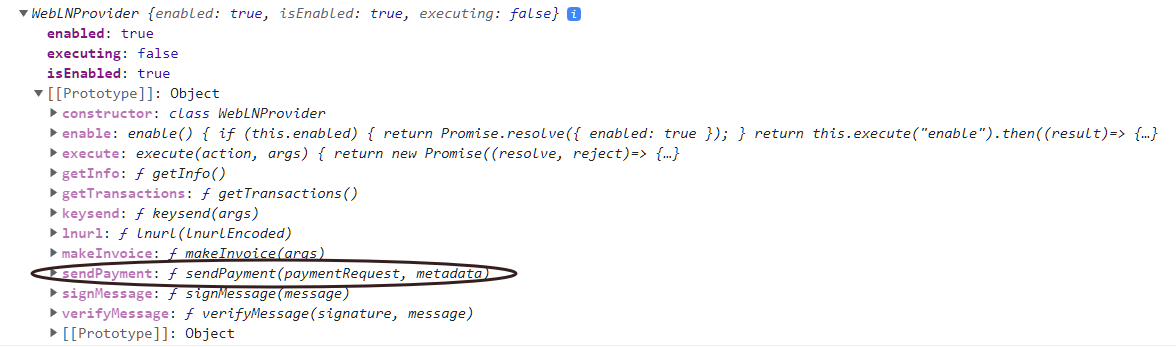
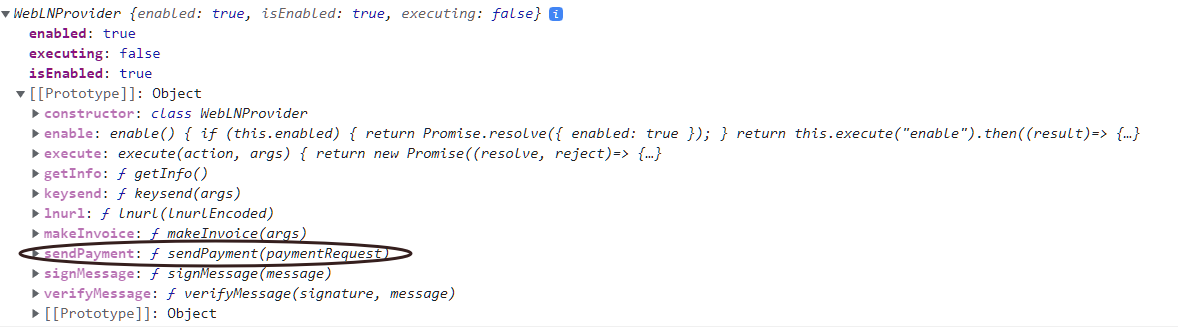
GitBook: [#25] No subject

Changed region(s): [[0.0, 0.0893, 0.9796, 0.9821], [0.0, 0.0, 0.5204, 0.0595]]

diff --git a/working-architecture-of-spec/validate-metadata-wallets.md b/working-architecture-of-spec/validate-metadata-wallets.md
@@ -32,38 +32,39 @@ Schemas can be created to validate received data against a predefined data model
 * Custom and Reusable Validator function to validate metadata
 
 ```
- import { audioObjectSchema } from "./audioObjectSchema";
+import { audioObjectSchema } from "./audioObjectSchema";
 
- export function isBase64(str: string) {
-   if (str === "" || str.trim() === "") {
-     return false;
-   }
-   try {
-     return btoa(atob(str)) == str;
-   } catch (err) {
-     return false;
-   }
- }
+export function isBase64(str: string) {
+  if (str === "" || str.trim() === "") {
+    return false;
+  }
+  try {
+    return btoa(atob(str)) == str;
+  } catch (err) {
+    return false;
+  }
+}
 
- export function MetadataValidator(metadata: { [key: string]: string }) {
-   let hasValidType = false;
-   let hasValidImage = true;
-   for (const key in metadata) {
-     if (key == "type") {
-       if (metadata[key] == "AudioObject") {
-         const parsed = audioObjectSchema.safeParse(metadata);
-         if (parsed.success) {
-           hasValidType = true;
-         }
-       }
-     }
-     if (key == "image") {
-       hasValidImage = isBase64(metadata[key]);
-     }
-   }
+export function MetadataValidator(metadata: object) {
+  let hasValidType: boolean = false;
+  let hasValidImage: boolean = true;
+  for (const [key, value] of Object.entries(metadata)) {
+    if (key == "type") {
+      if (value == "AudioObject") {
+        const parsed = audioObjectSchema.safeParse(metadata);
+        if (parsed.success) {
+          hasValidType = true;
+        }
+      }
+    }
+    if (key == "image") {
+      hasValidImage = isBase64(value);
+    }
+  }
 
- return hasValidType && hasValidImage;
- }
+  return hasValidType && hasValidImage;
+}
+
 ```
 
 * To Validate Metadata Just call the function by passing metadata.

diff --git a/working-architecture-of-spec/store-interact-and-do-after-actions-with-metadata.md b/working-architecture-of-spec/store-interact-and-do-after-actions-with-metadata.md
@@ -15,17 +15,16 @@ Once the payment is successful, we can allow the user to access his purchased co
 This can be done in the SendPayment callback function as follows:
 
 ```
- webln.sendPayment(Bolt 11 invoice, Metadata)
-          .then(function(r) {
-            // Required constraint to protect Metadata, as a rule when empty 
-            invoices are paid
-            if(r != undefined){
-              // Provide Metadata after successful Payment
-              // eg. Allow user to download a song after payment is successful
-            }
-          })
-          .catch(function(e) {
-            alert("Failed: " + e.message);
-            console.log('err pay:', e);
-          });    
+webln.sendPayment(invoice, metadata)
+  .then(function (r) {
+    // Required constraint to protect Metadata, as a rule when empty invoices are paid
+    if (r != undefined) {
+      // Provide Metadata after successful Payment
+      // eg. Allow user to download a song after payment is successful
+    }
+  })
+  .catch(function (e) {
+    alert("Failed: " + e.message);
+    console.log('err pay:', e);
+   });
 ```

diff --git a/working-architecture-of-spec/intro.md b/working-architecture-of-spec/intro.md
@@ -27,15 +27,14 @@ sendPayment(paymentRequest: string, metadata?: string): Promise<SendPaymentRespo
   Before passing metadata, metadata needs to be structured following the data models provided in a comprehensive guide
 
 ```
-webln.sendPayment(Invoice, Metadata)
-          .then(function(r) {
-            // Required constraint to protect Metadata, as a rule when empty 
-            invoices are paid
-            if(r != undefined){
-              // Provide Metadata after successful Payment
-              // eg. Allow user to download a song after payment is successful
-            }
-          })
+webln.sendPayment(invoice, metadata)
+  .then(function (r) {
+    // Required constraint to protect Metadata, as a rule when empty invoices are paid
+    if (r != undefined) {
+      // Provide Metadata after successful Payment
+      // eg. Allow user to download a song after payment is successful
+    }
+  })
 ```
 
 * Validate Metadata\

diff --git a/introduction/sending-payments-via-webln-along-with-metadata.md b/introduction/sending-payments-via-webln-along-with-metadata.md
@@ -10,11 +10,11 @@ sendPayment(paymentRequest: string, metadata?: string): Promise<SendPaymentRespo
 
 **WebLN Provider attached by wallets before**
 
-![WebLN provider attachted by wallets before](<../.gitbook/assets/image (2).png>)
+![WebLN provider attachted by wallets before](<../.gitbook/assets/image (4).png>)
 
 **WebLN Provider attached by wallets after implementation of this spec**
 
-![WebLN provider attached by wallets after ](<../.gitbook/assets/image (1).png>)
+![WebLN provider attached by wallets after ](../.gitbook/assets/image.png)
 
 ### Passing Metadata Via SendPayment Method
 

diff --git a/introduction/what-is-webln.md b/introduction/what-is-webln.md
@@ -1,7 +1,5 @@
 # 🤔 What is WebLN?
 
-###
-
 Lightning Web Standard (WebLN)⚡is a specification used to build a Bitcoin Lightning-driven web application.
 
 WebLN is a set of specifications for Lightning apps and client providers to facilitate communication between web apps and users’ lightning nodes in a secure way. It provides a programmatic, permissioned interface for letting applications ask users to send payments, generates invoices to receive payments, and much more.\

diff --git a/working-architecture-of-spec/make-a-request-to-wallet-for-webln-provider-via-triggering-sendpayment.md b/working-architecture-of-spec/make-a-request-to-wallet-for-webln-provider-via-triggering-sendpayment.md
@@ -13,4 +13,4 @@ sendPayment(paymentRequest: string, metadata?: string): Promise<SendPaymentRespo
 
 Alby uses an extended version of the WebLN provider which when triggered provides `SendPayment` method containing optional parameter `metadata`
 
-![WebLN provider attached by wallets after the implementation of this spec](../.gitbook/assets/image.png)
+![WebLN provider attached by wallets after the implementation of this spec](<../.gitbook/assets/image (3).png>)

diff --git a/data-models/data-model-overview.md b/data-models/data-model-overview.md
@@ -23,14 +23,13 @@ Use our data models of the suitable type to structure metadata in form of **JSON
 eg.
 
 ```
-var Metadata = {};
-Metadata = {
+let metadata: {};
+metadata = {
  "type": "AudioObject",
  "name": "title",
  "creator": "artist",
  "image": "image" 
  }
- export var Metadata;
 ```
 
 To learn more about how to structure metadata for Bitcoin Transactions -

diff --git a/working-architecture-of-spec/structure-metadata-and-pass-it-to-the-wallet-in-callback.md b/working-architecture-of-spec/structure-metadata-and-pass-it-to-the-wallet-in-callback.md
@@ -17,14 +17,13 @@ Use our data models of the suitable type to structure metadata in form of **JSON
 eg.
 
 ```
-var Metadata = {};
-Metadata = {
+let metadata: {};
+metadata = {
  "type": "AudioObject",
  "name": "title",
  "creator": "artist",
  "image": "image" 
  }
- export var Metadata;
 ```
 
 To learn more about how to structure metadata for Bitcoin Transactions -
